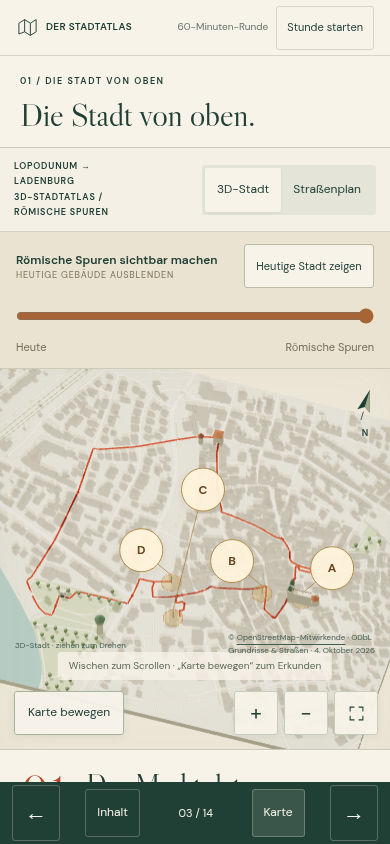
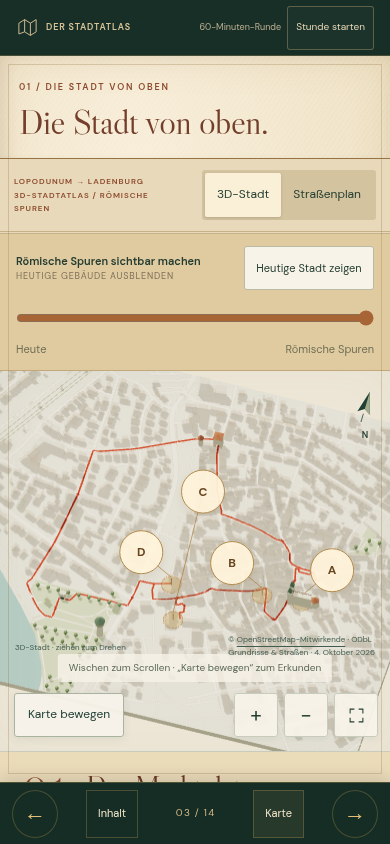
Give Ladenburg an illustrated gilt atlas cover and engraved paper pages

diff --git a/ladenburg.html b/ladenburg.html
@@ -91,6 +91,23 @@ html,body{height:100%;overflow:hidden}html{scroll-behavior:auto}body{overscroll-
 .touch-device .three-container{touch-action:pan-y}.touch-device .atlas.touch-active .three-container,.touch-device .atlas.manual .three-container{touch-action:none}
 </style>
 <style>@media(max-width:540px){.cover-page .hero h1 span{font-size:clamp(29px,8.5vw,36px);white-space:nowrap}.cover-page .stat strong{font-size:27px;white-space:nowrap}.cover-page .stat{padding-left:8px;padding-right:8px}}</style>
+<style id="engraved-atlas-design">/* Ladenburg: a gilt town atlas, with an engraved frontispiece and paper folios. */
+:root{--paper:#f1e5ca;--ink:#253d31;--line:#a9956c;--orange:#93432c;--gold:#bf9854}
+body{background:#162b23}.book-stage{max-width:1180px}.book-page{background-color:var(--paper);background-image:radial-gradient(ellipse at 35% 20%,#fff7e98c,transparent 65%),repeating-linear-gradient(124deg,#7a613107 0px,#7a613107 1px,transparent 1px,transparent 4px);box-shadow:inset 5px 0 14px #57442217,inset 0 0 40px #9b743929}.book-page:after{content:'';position:absolute;inset:12px;border:1px solid #95713e48;pointer-events:none;z-index:2}.page-inner{padding:38px 46px 42px}.topbar{color:#d8c397;background:#172f27;border-bottom:1px solid #b699574d}.brand{letter-spacing:.12em;font-size:11px}.book-timer button{border-color:#c3a77566;color:#e7d6b5;background:#ffffff05}.book-timer .walk-elapsed{color:#bdaf90}.page-controls{background:#152d24;border-top:1px solid #b99a5659;box-shadow:0 -4px 16px #0002;color:#dbc599}.page-controls button{border-color:#b3935555;border-radius:0}.page-controls button:first-child,.page-controls button:last-child{border-radius:50%;width:48px;min-width:48px;padding:0;color:#e2bf75}.page-controls button[aria-pressed=true]{background:#d6b26c18}.page-controls span{letter-spacing:.12em;color:#d6b986}.eyebrow{color:#8d4a2d;font-size:10px;letter-spacing:.2em}.btn{border-color:#94734270;border-radius:0;background:#fffaed38}.btn.primary{background:#2a4637;color:#f0dfb9;border-color:#2a4637}.btn:hover{background:#b8904b1a}.btn.primary:hover{background:#365843}
+/* The cover reads as a complete object rather than an article. */
+.cover-page{background:#193b30;color:#e7d2a1;background-image:radial-gradient(ellipse at 45% 35%,#3a625040,transparent 70%),repeating-linear-gradient(115deg,#0000000b 0px,#0000000b 1px,transparent 1px,transparent 3px);box-shadow:inset 9px 0 22px #0005,inset 0 0 85px #051e18b0}.cover-page:before{content:'';position:absolute;inset:16px;border:1px solid #bfa26890;outline:1px solid #bfa26840;outline-offset:5px;pointer-events:none;z-index:2}.cover-page:after{inset:25px;border:1px solid #bfa26840}.cover-page .page-inner{padding:38px 50px 24px;display:flex;flex-direction:column;align-items:center;position:relative}.cover-page .hero{display:flex;flex-direction:column;align-items:center;text-align:center;width:100%;padding:0;gap:0;max-width:870px}.cover-head{width:100%;position:relative}.cover-page .eyebrow{color:#cab381;font-size:10px;letter-spacing:.26em}.cover-rule{display:flex;align-items:center;gap:15px;color:#b9995e;width:170px;margin:12px auto 9px}.cover-rule:before,.cover-rule:after{content:'';height:1px;background:#b9995e70;flex:1}.cover-rule span{font-size:19px;line-height:1}.cover-kicker{font-family:var(--serif);font-style:italic;font-size:22px;margin:4px 0;color:#cbb986}.cover-page .hero h1{font-family:var(--serif);font-size:clamp(80px,8vw,113px);font-weight:400;line-height:.95;letter-spacing:-.04em;margin:5px 0 9px;color:#ecd6a4;text-shadow:0 1px 0 #091f17,0 -1px 0 #ffecbd35}.cover-subtitle{font-family:var(--serif);font-style:italic;font-size:27px;margin:0;color:#cdb681;letter-spacing:.015em}.cover-frontispiece{width:min(100%,590px);margin:12px 0 0;color:#d7ba7e;position:relative}.cover-frontispiece svg{display:block;width:100%;height:auto;filter:drop-shadow(0 1px 0 #081e17);overflow:visible}.cover-frontispiece:before,.cover-frontispiece:after{content:'✧';position:absolute;top:40%;font-size:25px;color:#ae8c53}.cover-frontispiece:before{left:-18px}.cover-frontispiece:after{right:-18px}.cover-frontispiece figcaption{font-family:var(--serif);font-size:17px;font-style:italic;margin-top:-5px;color:#bca979}.cover-roman{color:#b38a56}.cover-edition{display:flex;align-items:center;gap:22px;letter-spacing:.2em;font-size:9px;margin-top:17px;color:#d7bf8c}.cover-edition b{font-size:24px;line-height:1;font-weight:400;color:#b49354}.cover-page .hero-side{width:100%;padding:0;margin-top:14px;max-width:none}.cover-page .date{display:block;color:#c4b58e;font-size:12px;margin:0;letter-spacing:.08em}.cover-page .date:before{display:none}.cover-page .hero-actions{justify-content:center;margin-top:16px;gap:12px}.cover-page .hero-actions .btn{min-height:44px;font-size:12px;color:#e3cb95;border-color:#b698586e;background:transparent;letter-spacing:.02em;padding:10px 16px}.cover-page .hero-actions .btn.primary{background:#c7a568;color:#17372c;border-color:#ddbf82;box-shadow:inset 0 0 0 3px #dfc38e44}.cover-page .hero-actions .btn.primary:hover{background:#dec18b}.cover-turn-hint{color:#b7985d;font-family:var(--serif);font-style:italic;font-size:16px;letter-spacing:.08em;margin:15px 0 3px}.cover-page .stats{display:none}.cover-open .brand{color:#c8ad74}.cover-open .book-timer .walk-elapsed{font-size:10px}
+/* Engraved corners. Pure ornament is kept out of the accessibility tree. */
+.cover-corner{position:absolute;width:64px;height:64px;color:#b99a5f;pointer-events:none;z-index:3}.cover-corner svg{width:100%;height:100%}.cover-corner.tl{left:22px;top:22px}.cover-corner.tr{right:22px;top:22px;transform:rotate(90deg)}.cover-corner.br{right:22px;bottom:22px;transform:rotate(180deg)}.cover-corner.bl{left:22px;bottom:22px;transform:rotate(270deg)}
+/* Inner leaves: numbered plates, rules and marginal ornaments. */
+.contents-page h2{font-size:62px;line-height:1.03;color:#713b28;margin:15px 0 24px}.contents-page h2:after{content:'❦';display:block;font-size:25px;color:#a47e42;line-height:1;margin-top:18px}.contents-list{border-top:3px double #9e7d4866}.contents-list a{border-bottom:1px solid #9e7d4840}.contents-number{color:#994d30;font-family:var(--serif)}.contents-name{font-family:var(--serif);font-size:25px}.contents-name small{font-family:var(--sans);color:#7c725a}.contents-time{color:#8d6b38}.contents-tuesday{margin-top:25px;padding:18px 20px;border:1px solid #9e7d4859;background:#c5a15c0d}.contents-tuesday p{font-size:14px;margin:8px 0 0}.plan-strip{border-top:3px double #9e7d4860}.plan-strip strong{font-family:var(--serif);font-size:21px;font-weight:400;color:#783d27}.section-heading h2{color:#733e2b}.atlas{border:1px solid #977343;border-radius:0;box-shadow:0 3px 8px #6043211a}.atlas-top{background:#e7d9b9;border-bottom:3px double #9e7d4870}.mode-switch{background:#d3c39f}.mode-switch button[aria-pressed=true]{background:#faf0d7;box-shadow:0 1px 3px #0002}.reveal-bar{background:#e0cba1;border-bottom:1px solid #92704460}.map-side{background:#eadbb9}.map-side h3{color:#6b3a28}.map-number,.stop-number{color:#8c482e}.map-notes{color:#6f654f}.reveal-status{font-family:var(--serif);font-style:italic;font-size:18px}.evidence-list{border:1px solid #9e7d4855;background:#eadaba}.evidence-list button{border-color:#9e7d4844}.evidence-list b{color:#985837}.site-page .stop{border-top:0}.site-page .stop-head{padding-top:5px;padding-bottom:19px;border-bottom:3px double #9e7d4870}.site-page .stop-head .num{font-family:var(--serif);color:#93472e;font-size:49px;font-style:italic}.site-page .stop-head h3{font-size:46px;color:#713e2a;line-height:1.05}.site-page .time-pill{background:none;border-left:1px solid #a4834a70}.site-page .stop-illustration{height:205px;border:1px solid #a1814b85;outline:1px solid #a1814b35;outline-offset:4px;background:radial-gradient(ellipse,#faf1d9aa,transparent),repeating-linear-gradient(130deg,#a37d3a08 0px,#a37d3a08 1px,transparent 1px,transparent 5px);margin:26px 4px 35px;position:relative;display:flex;align-items:center;justify-content:center;box-shadow:inset 0 0 20px #8b652614}.site-page .stop-illustration svg{height:100%;max-width:480px;width:100%;padding:12px 15px 26px;filter:sepia(.35)}.site-page .stop-illustration:after{content:attr(data-caption);position:absolute;bottom:8px;left:8px;right:8px;text-align:center;font-size:9px;letter-spacing:.13em;color:#7b6240}.site-page .stop-body h4{letter-spacing:.19em;font-size:10px;color:#92482d;display:flex;align-items:center;gap:13px;margin-bottom:11px}.site-page .stop-body h4:after{content:'';height:1px;background:#a4834a55;flex:1}.site-page .stop-body p{font-family:var(--serif);font-size:23px;line-height:1.55;color:#3c4030}.site-page .stop-body>p:first-of-type:first-letter{font-size:3.05em;float:left;line-height:.85;padding:6px 8px 0 0;color:#93472e}.site-page .story{border:0;border-top:3px double #a4834a55;padding-top:19px;margin-top:26px;background:none}.site-page .next-leg{background:#ddc99f4d;border-left:2px solid #a0793c;font-family:var(--serif);font-size:20px;padding:16px 20px}.source-mini{font-size:11px;color:#8b6940}.field-notes{border:3px double #9e7d4870;background:#e5d3af70;padding:30px}.field-notes h2{color:#783e29}.field-notes p{font-family:var(--serif);font-size:23px;line-height:1.55}.practical h2,.sources h2{color:#713d2a}.practical dt{font-family:var(--serif);font-size:23px;color:#7b432b}.practical dd{color:#55533f}.sources p{font-family:var(--serif);font-size:21px}.sources li{padding:12px 0;border-bottom:1px solid #9e7d4830}.sources li a{color:#793f29}
+@media(min-width:801px){.cover-page .page-inner{justify-content:center}.cover-page .hero{display:grid;grid-template-columns:1fr 1fr;column-gap:35px;max-width:1000px}.cover-head{grid-column:1;grid-row:1;align-self:end;padding-bottom:10px}.cover-page .hero h1{font-size:92px}.cover-frontispiece{grid-column:2;grid-row:1/4;align-self:center}.cover-edition{grid-column:1;grid-row:2;justify-content:center;align-self:start}.cover-page .hero-side{grid-column:1;grid-row:3;align-self:start}.cover-page .hero>.cover-turn-hint{grid-column:1;margin-top:26px}.cover-page .hero-actions{flex-wrap:wrap}}
+@media(max-width:800px){.page-inner{padding:30px}.cover-page .page-inner{padding:35px 42px 26px}.cover-page .hero h1{font-size:95px}.cover-frontispiece{width:min(100%,490px)}.cover-page .hero-side{margin-top:13px}.site-page .stop-head h3{font-size:40px}.site-page .stop-body p{font-size:22px}}
+@media(max-width:540px){.book-page:after{inset:8px}.page-inner{padding:27px 23px 32px}.topbar{padding:0 16px}.brand{font-size:9px;letter-spacing:.09em}.book-timer button{font-size:10px;padding:8px}.book-timer{gap:6px}.book-timer .walk-elapsed{font-size:9px;min-width:67px}.cover-page:before{inset:14px;outline-offset:4px}.cover-page:after{inset:21px}.cover-page .page-inner{padding:33px 30px 25px}.cover-page .hero{padding:0}.cover-page .eyebrow{font-size:8px;letter-spacing:.2em}.cover-rule{width:130px;margin:11px auto 9px}.cover-kicker{font-size:19px;margin:3px 0}.cover-page .hero h1{font-size:clamp(59px,16.8vw,74px);margin:5px 0 8px;letter-spacing:-.04em;white-space:nowrap}.cover-subtitle{font-size:22px}.cover-frontispiece{width:100%;margin:18px 0 0}.cover-frontispiece:before{left:-13px}.cover-frontispiece:after{right:-13px}.cover-frontispiece:before,.cover-frontispiece:after{font-size:18px}.cover-frontispiece figcaption{font-size:15px;margin-top:0}.cover-edition{font-size:8px;letter-spacing:.18em;gap:17px;margin-top:17px}.cover-page .hero-side{margin-top:17px}.cover-page .date{font-size:11px;letter-spacing:.03em}.cover-page .hero-actions{margin-top:15px;gap:8px;flex-wrap:wrap}.cover-page .hero-actions .btn{font-size:11px;padding:10px 12px;min-height:44px}.cover-page .hero-actions .btn svg{width:16px;height:16px}.cover-turn-hint{font-size:15px;margin:19px 0 0}.cover-corner{width:45px;height:45px}.cover-corner.tl{left:18px;top:18px}.cover-corner.tr{right:18px;top:18px}.cover-corner.br{right:18px;bottom:18px}.cover-corner.bl{left:18px;bottom:18px}.contents-page h2{font-size:50px}.contents-name{font-size:21px}.contents-name small{font-size:10px}.contents-list a{grid-template-columns:27px 1fr 40px 13px;gap:8px}.contents-number{font-size:27px}.contents-page .eyebrow{font-size:9px}.contents-intro{font-family:var(--serif);font-size:20px;line-height:1.5}.contents-tuesday{padding:15px}.contents-tuesday p{font-size:13px}.map-page .page-inner{padding:24px 19px 28px}.map-page .section-heading h2{font-size:35px}.map-page .section-heading{margin-bottom:17px}.atlas-top .eyebrow{font-size:8px;letter-spacing:.12em}.reveal-bar label{font-size:11px}.site-page .stop-head{grid-template-columns:32px 1fr;gap:11px;padding-bottom:16px}.site-page .stop-head .num{font-size:39px}.site-page .stop-head h3{font-size:36px}.site-page .stop-head .eyebrow{font-size:8px;letter-spacing:.15em}.site-page .stop-head .local{font-size:11px}.site-page .time-pill{grid-column:2;display:flex;align-items:center;gap:12px;border:0;padding:0;margin-top:3px;justify-self:start}.site-page .time-pill strong{font-size:11px}.site-page .time-pill span{font-size:10px}.site-page .stop-illustration{height:176px;margin:23px 4px 29px}.site-page .stop-illustration:after{font-size:7px;letter-spacing:.1em}.site-page .stop-body h4{font-size:9px;letter-spacing:.17em}.site-page .stop-body p{font-size:21px;line-height:1.52}.site-page .stop-body{margin-left:0}.site-page .next-leg{font-size:19px;padding:14px}.field-notes{padding:21px}.field-notes p{font-size:21px}.field-notes h2{font-size:37px}.practical h2,.sources h2{font-size:40px}.practical dt{font-size:22px}.page-controls button{font-size:11px;min-width:44px}.page-controls button:first-child,.page-controls button:last-child{width:46px;min-width:46px}.page-controls span{font-size:10px;min-width:59px}}
+@media(max-height:740px) and (max-width:540px){.cover-page .page-inner{padding-top:26px}.cover-rule{margin:7px auto}.cover-frontispiece{max-width:285px;margin-top:12px}.cover-edition{margin-top:11px}.cover-page .hero-side{margin-top:11px}.cover-turn-hint{margin-top:12px}.cover-page .hero h1{font-size:59px}}
+@media(prefers-reduced-motion:no-preference){.cover-open .cover-frontispiece{animation:plate-arrive .9s ease both}.cover-open .cover-head{animation:title-arrive .7s ease both}@keyframes plate-arrive{from{opacity:0;transform:translateY(10px)}to{opacity:1;transform:translateY(0)}}@keyframes title-arrive{from{opacity:0}to{opacity:1}}}
+@media print{body{background:white}.book-page{box-shadow:none}.cover-page{background:#f1e5ca;color:#253d31}.cover-page .hero h1,.cover-page .eyebrow,.cover-subtitle,.cover-kicker,.cover-frontispiece,.cover-edition,.cover-page .date,.cover-frontispiece figcaption{color:#253d31}.cover-page .page-inner{display:block}.cover-page .hero{display:flex}.cover-corner{display:none}.cover-page .hero-actions,.cover-turn-hint{display:none}}
+</style>
+<style>@media(max-width:540px){.site-page .stop-head{grid-template-columns:42px minmax(0,1fr)}.site-page .stop-head>div{min-width:0}.site-page .stop-head h3{overflow-wrap:break-word}.site-page .stop-head .num{font-size:35px;letter-spacing:-.04em}.site-page .stop-body p,.contents-intro{hyphens:auto}.cover-page .hero-actions .btn{display:inline-flex;align-items:center;justify-content:center}}</style>
 </head>
 <body>
 <a class="skip" href="#atlas">Direkt zur Stadtkarte</a>
@@ -101,15 +118,34 @@ html,body{height:100%;overflow:hidden}html{scroll-behavior:auto}body{overscroll-
 </header>
 <main>
 <section class="hero" aria-labelledby="title">
-<div><div class="eyebrow">Nr. 09 / Kurpfalz, Deutschland / 49°28′ N · 8°37′ E</div><h1 id="title">Ladenburg.<br><span>Unter der Oberfläche.</span></h1><p class="hero-copy">Römische Steine unter deinen Füßen. Fachwerk über deinem Kopf. Eine kleine Garage für eine Erfindung, die die Welt veränderte. Acht Stationen, eine Stunde und der Neckar als roter Faden.</p></div>
-<div class="hero-side"><div class="seal" aria-label="Ein Stadtführer für 60 Minuten"><span>EIN KLEINER STADTFÜHRER</span><strong>60</strong><span>MINUTEN ZU FUSS</span></div><div class="date">Dienstag, 6. Oktober 2026</div><div class="tuesday-note"><strong>Ein Spaziergang für deinen Dienstag.</strong><br>Lobdengau-Museum und Automuseum sind dienstags regulär geschlossen. Diese Runde funktioniert draußen. Die Sebastianskapelle wird restauriert; betrachte sie von außen.</div><div class="hero-actions"><a class="btn primary" href="#atlas"><svg viewBox="0 0 24 24" fill="none" stroke="currentColor" stroke-width="1.5" aria-hidden="true"><path d="m3 6 6-3 6 3 6-3v15l-6 3-6-3-6 3V6Z"/><path d="M9 3v15M15 6v15"/></svg>Atlas öffnen</a><button class="btn" id="download"><svg viewBox="0 0 24 24" fill="none" stroke="currentColor" stroke-width="1.5" aria-hidden="true"><path d="M12 3v12m-5-5 5 5 5-5M4 15v6h16v-6"/></svg>Offline speichern</button></div></div>
+<div class="cover-head"><div class="eyebrow">KURPFALZ · EIN STADTPORTRÄT ZU FUSS</div><div class="cover-rule"><span>❧</span></div><p class="cover-kicker">Über den Steinen von</p><h1 id="title">Ladenburg</h1><p class="cover-subtitle">Unter der Oberfläche</p></div>
+<figure class="cover-frontispiece"><svg viewBox="0 0 640 420" xmlns="http://www.w3.org/2000/svg" role="img" aria-labelledby="frontispiece-title frontispiece-desc"><title id="frontispiece-title">Ladenburg über Lopodunum</title><desc id="frontispiece-desc">Stilisierte Zeichnung: die Türme von St. Gallus, Fachwerkhäuser, Benz-Garage und Neckar über einer angedeuteten römischen Fundamentschicht. Keine archäologische Rekonstruktion.</desc><defs><pattern id="engraving-lines" width="5" height="5" patternUnits="userSpaceOnUse"><path d="M0 5 5 0" stroke="currentColor" stroke-width=".6" opacity=".4"/></pattern><pattern id="roman-stones" width="36" height="22" patternUnits="userSpaceOnUse"><path d="M0 0H36M0 22H36M18 0V11M0 11H36M7 11V22M31 11V22" stroke="currentColor" stroke-width=".8" fill="none"/></pattern><clipPath id="plate-clip"><path d="M48 273V147C48-14 592-14 592 147V273Z"/></clipPath></defs>
+<g fill="none" stroke="currentColor" stroke-width="1"><path d="M37 271V147C37-32 603-32 603 147V271M48 271V147C48-14 592-14 592 147V271" opacity=".65"/><path d="M25 273H615M25 281H615"/><path d="M320 11V-1M190 29 185 18M450 29 455 18M79 96 70 88M561 96 570 88"/><circle cx="320" cy="16" r="3"/><path d="m320 22 5 6-5 6-5-6Z"/></g>
+<g clip-path="url(#plate-clip)"><g stroke="currentColor" fill="none" opacity=".15"><path d="M320 218 55 67M320 218 100 31M320 218 181 11M320 218 256-4M320 218 385-4M320 218 462 11M320 218 540 31M320 218 585 67"/><path d="M48 157H592M48 191H592M48 225H592"/></g>
+<g fill="#173d33" stroke="currentColor" stroke-width="1.2" stroke-linejoin="round">
+<!-- Towers of St. Gallus and the broad nave. -->
+<path d="M260 249V113H288V249M365 249V113H393V249"/><path d="M256 113 274 62 292 113ZM361 113 379 62 397 113Z" fill="url(#engraving-lines)"/><path d="M274 62V46m-6 9h12M379 62V46m-6 9h12" fill="none"/><path d="M288 249V157L326 123 365 157V249Z"/><path d="m284 157 42-39 43 39" fill="none"/><path d="M302 249V186H351V249" fill="url(#engraving-lines)"/>
+<path d="M264 126H284M264 137H284M264 171H284M369 126H389M369 137H389M369 171H389" fill="none"/><path d="M270 149V163h8v-14a4 4 0 0 0-8 0ZM375 149V163h8v-14a4 4 0 0 0-8 0Z"/><path d="M318 246V219a9 9 0 0 1 18 0V246M309 181a17 17 0 1 1 34 0Z"/>
+<!-- Market roofs and timber frame, with a fountain. -->
+<path d="M63 246V184l34-40 34 40v62Z"/><path d="m59 185 38-46 39 46" fill="url(#engraving-lines)"/><path d="M143 246V173l40-47 40 47v73Z"/><path d="m137 174 46-54 46 54" fill="url(#engraving-lines)"/><path d="M229 246V202l22-24 22 24v44Z"/><path d="M73 187h48M73 208h48M73 231h48M97 152v94M74 187l46 43M120 188l-46 43M153 178h61M153 206h61M153 232h61M183 135v111M154 179l58 52M212 179l-58 52" fill="none"/><path d="M84 246V230h24v16M169 246v-22h28v22"/>
+<!-- The tower-like Benz garage and the water tower. -->
+<path d="M416 246V178h70v68Z"/><path d="M411 178v-14h12v7h12v-7h12v7h12v-7h12v7h15v-7h6v14Z" fill="url(#engraving-lines)"/><path d="M433 246v-27q18-22 36 0v27M433 192h35" fill="none"/>
+<path d="M524 246V161h27v85Z"/><path d="M515 161v-31h45v31Z"/><path d="m511 130 27-29 26 29Z" fill="url(#engraving-lines)"/><path d="M522 139h32M532 172v14m10-14v14M531 246v-25h13v25" fill="none"/>
+<path d="M488 247V213l15-18 16 18v34Z"/>
+</g><g stroke="currentColor" fill="none" stroke-width=".8" opacity=".6"><path d="M64 250H577M64 255H577M64 260H577"/><path d="M101 176v-12M187 151v-12M273 100V88M379 100V88M529 126h18"/><path d="M286 166V242M361 166V242M419 182V242M483 182V242M552 164V242"/></g></g>
+<!-- An engraved water margin separates modern town and Roman evidence. -->
+<g stroke="currentColor" fill="none" stroke-width="1" opacity=".75"><path d="M43 291q24-9 48 0t48 0t48 0t48 0t48 0t48 0t48 0t48 0t48 0t48 0t48 0"/><path d="M65 299q22-7 44 0t44 0t44 0t44 0t44 0t44 0t44 0t44 0t44 0t44 0t44 0"/></g>
+<g class="cover-roman" stroke="currentColor" stroke-width="1.1"><path d="M109 348V313H251V330H278V363H251V348ZM362 348V315H474V329H511V365H474V348Z" fill="url(#roman-stones)"/><path d="M96 372H529M96 378H529" fill="none" opacity=".5"/><path d="M171 287V321M326 282V368M440 289V319" stroke-dasharray="2 5" opacity=".7"/><circle cx="326" cy="331" r="24" fill="none"/><path d="M310 331H342M326 315V347" opacity=".5"/></g>
+<g fill="currentColor" font-family="DM Sans,sans-serif" text-anchor="middle" font-size="10" letter-spacing="4"><text x="320" y="407">LOPODUNUM · UNTER UNS</text></g></svg><figcaption>Fachwerk über Rom. Der Neckar daneben.</figcaption></figure>
+<div class="cover-edition"><span>ACHT STATIONEN</span><b>❦</b><span>EINE STUNDE</span></div>
+<div class="hero-side"><div class="date">Dienstag, 6. Oktober 2026</div><div class="hero-actions"><a class="btn primary" href="#route">Rundgang starten</a><button class="btn" id="download"><svg viewBox="0 0 24 24" fill="none" stroke="currentColor" stroke-width="1.5" aria-hidden="true"><path d="M12 3v12m-5-5 5 5-5 5M4 15v6h16v-6"/></svg>Offline speichern</button></div></div>
 </section>
 <div class="stats" aria-label="Überblick zum Rundgang"><div class="stat"><strong>2,1</strong><span>Kilometer · Rundweg</span></div><div class="stat"><strong>08</strong><span>kurze Stationen</span></div><div class="stat"><strong>30 / 28</strong><span>gehen / schauen · Minuten</span></div><div class="stat"><strong>€0</strong><span>Eintritt nötig</span></div></div>
 <section aria-labelledby="atlas-title">
 <div class="section-heading"><div><div class="eyebrow">01 / Die Stadt von oben</div><h2 id="atlas-title">Ein kleiner Atlas. Eine ganze Stadt.</h2></div><p>Start und Ziel: der Brunnen auf dem Marktplatz.<br>Dreh die Stadt. Blende ihre Gebäude aus. Entdecke ihre römischen Spuren.</p></div>
 <div class="atlas" id="atlas">
 <div class="atlas-top"><span class="eyebrow">Lopodunum → Ladenburg<br>3D-Stadtatlas / römische Spuren</span><div class="mode-switch" role="group" aria-label="Kartenansicht"><button id="bird-mode" aria-pressed="true">3D-Stadt</button><button id="flat-mode" aria-pressed="false">Straßenplan</button></div></div>
-<div class="reveal-bar"><label for="roman-reveal">Römische Spuren sichtbar machen<span>Heutige Gebäude ausblenden</span></label><div class="reveal-range"><input id="roman-reveal" type="range" min="0" max="100" value="0" step="1" aria-valuetext="Present-day town; Römische Spuren hidden"><div class="range-labels"><span>Heute</span><span>Römische Spuren</span></div></div><button id="reveal-toggle" aria-pressed="false">Römische Spuren zeigen</button></div>
+<div class="reveal-bar"><label for="roman-reveal">Römische Spuren sichtbar machen<span>Heutige Gebäude ausblenden</span></label><div class="reveal-range"><input id="roman-reveal" type="range" min="0" max="100" value="0" step="1" aria-valuetext="Heutige Stadt; römische Spuren ausgeblendet"><div class="range-labels"><span>Heute</span><span>Römische Spuren</span></div></div><button id="reveal-toggle" aria-pressed="false">Römische Spuren zeigen</button></div>
 <div class="atlas-body"><div class="map-panel"><div class="three-container" id="town-three" hidden></div><svg id="town-map" class="map-svg" viewBox="0 0 1000 790" role="group" aria-labelledby="map-title map-desc"><title id="map-title">Karte aus der Vogelperspektive: Ladenburg in einer Stunde</title><desc id="map-desc">Norden liegt oben. Der Neckar liegt im Südwesten, Marktplatz und St. Gallus im Osten, das Martinstor im Norden. Acht nummerierte Stationen folgen dem orangefarbenen Rundweg. Alternativ zur Karte kannst du die Stationsschaltflächen darunter nutzen.</desc><defs><pattern id="atlas-grid" width="100" height="100" patternUnits="userSpaceOnUse"><path d="M100 0H0V100" fill="none" stroke="#536a54" stroke-width=".6" opacity=".12"/></pattern><filter id="paper-grain"><feTurbulence type="fractalNoise" baseFrequency=".5" numOctaves="2" stitchTiles="stitch"/><feColorMatrix type="saturate" values="0"/></filter><clipPath id="map-clip"><rect width="1000" height="790"/></clipPath></defs><rect width="1000" height="790" fill="#efeadf"/><rect width="1000" height="790" fill="url(#atlas-grid)"/><g clip-path="url(#map-clip)"><g id="map-world"></g></g><rect class="map-grain" width="1000" height="790" filter="url(#paper-grain)" pointer-events="none"/></svg>
 <div class="map-controls" role="group" aria-label="Karte zoomen"><button id="zoom-in" aria-label="Vergrößern">+</button><button id="zoom-out" aria-label="Verkleinern">−</button><button class="rotate-control" id="rotate-left" aria-label="Stadt nach links drehen">↶</button><button class="rotate-control" id="rotate-right" aria-label="Stadt nach rechts drehen">↷</button><button id="zoom-reset" aria-label="Kartenansicht zurücksetzen"><svg viewBox="0 0 24 24" fill="none" stroke="currentColor" stroke-width="1.5"><path d="M3 9V3h6m6 0h6v6m0 6v6h-6M9 21H3v-6"/></svg></button></div>
 <div class="map-view-hint" id="map-view-hint">Ziehen zum Drehen · Scrollen oder zwei Finger zum Zoomen · rechts ziehen zum Verschieben</div><button class="map-interact" id="map-interact" aria-pressed="false" aria-label="Karte bewegen aktivieren; zum Scrollen der Seite deaktivieren">Karte bewegen</button><div class="map-north" aria-hidden="true"><svg viewBox="0 0 32 55"><path d="M16 6 7 37l9-6 9 6Z" fill="#203f35"/><path d="M16 6v25l9 6Z" fill="#a5ad8d"/><path d="M16 38v12" stroke="#203f35"/></svg>N</div>
@@ -4683,6 +4719,21 @@ function drawIllustration(id,target='side-art'){
  else if(id==='benz'){draw('M75 115V49h103v66Z M75 49V34h16v9h16v-9h16v9h16v-9h16v9h23v6Z');line(svg,'M105 115V83q22-24 43 0v32M91 59h71M117 61v11m19-11v11M69 120h117');}
  else if(id==='neckar'){draw('M173 113V47h36v66Z M165 47l26-34 26 34Z M169 37h44v19h-44Z');line(svg,'M30 102 53 55l71 26-70 36 44-9M37 106l89-1M20 126q20-10 40 0t40 0t40 0t40 0t40 0M182 62v14m16-14v14M181 115V91h19v24');}
  else{draw('M83 115V39h92v76Z M73 39l57-25 56 25Z M24 115V69h29v46Z M22 69l17-29 17 29Z');line(svg,'M110 115V89q20-24 39 0v26M99 54v14m18-14v14m22-14v14m19-14v14M53 98h30M54 82h29');}
+
+ // Fine architectural marks make each plate readable beyond its silhouette.
+ const details={
+ market:'M30 55l20-22 22 22M36 51h30M41 44h20M92 66l17-16 19 16M181 43l24-19 23 19M184 47h42M183 58h44M183 74h44M183 91h44M183 106h44M193 52v61m23-61v61M185 59l39 45m0-45-39 45M39 66v10h8V66Zm22 0v10h8V66ZM91 78v10h9V78Zm27 0v10h9V78ZM192 60v9h7v-9Zm19 0v9h7v-9ZM101 112V94h16v18M145 113h16M140 108h26M149 74h8M149 68h8M137 83q16 13 32 0M151 64v-9m4 9v-9',
+ gallus:'M43 53h22M43 58h22M186 53h22M186 58h22M46 91h16M47 98h15M187 91h17M187 98h17M47 104h15M187 104h17M80 110h36M159 110h17M83 76v26h10V81q-5-12-10-5ZM104 71v31h10V77q-5-13-10-6ZM158 76v26h10V81q-5-12-10-5ZM77 71l49-26 49 26M78 75l48-26 49 26M54 31v13m144-13v13M50 12h8m-4-4v10M194 12h8m-4-4v10M133 85h7m-3-6v11M92 106v6m13-6v6m59-6v6',
+ metzger:'M33 30h193M35 35h187M35 100h187M50 89l15-5h38l14 5h35l16-5h34M51 92h159M55 54h20m-10 0V45M81 54h20m-10 0V45M127 54h20m-10 0V45M166 54h20m-10 0V45M54 72h20m-10 0V64M87 72h20m-10 0V64M135 72h20m-10 0V64M180 72h20m-10 0V64M25 115h-9v-7H8m8 0v-7h9m0 0v-7h9M218 43v50M222 39v58M45 97h170M104 39v56',
+ bishop:'M31 63l62-31 64 31M34 67h118M30 112h128M45 79h15m9 0h15m9 0h15m9 0h15m9 0h15M43 108h107M84 104V83q10-12 20 0v21M44 74v34M66 74v34M121 74v34M145 74v34M178 63l30-21 23 21M176 68h56M177 111h53M204 105V83q8-13 16 0v22M184 47h15M191 40V27m-4 6h8M160 117v-10h9v10M163 107V80h3v27M159 80h11M164 79v-8m-3 6h7',
+ burgus:'M44 52h35M43 59h38M43 71h38M43 87h38M43 106h38M51 53v6m16-6v6M59 63v8m16-8v8M49 72v9m17-9v9M58 82v6m18-6v6M50 88v11m16-11v11M60 100v7m16-7v7M90 87h124M90 91h124M90 107h124M101 83v8m23-8v8m23-8v8m23-8v8m23-8v8M104 100v7m27-7v7m27-7v7m27-7v7M94 115h127M28 119h198M30 116l8-9m188 9-6-9',
+ benz:'M78 52h97M78 55h97M80 63h31m32 0h28M80 70h31m32 0h28M83 54v16m14-16v16m54-16v16m13-16v16M114 58h27M114 61h27M78 75h96M81 85h18m53 0h18M81 92h18m53 0h18M81 99h18m53 0h18M83 108h13m58 0h13M81 113h19m53 0h18M97 77v37m59-37v37M111 106l5-10h21l8 10M114 98h25M116 97l2-7h14l4 7M113 106h33M111 109h37M109 111a4 4 0 1 0 8 0a4 4 0 1 0-8 0M138 111a4 4 0 1 0 8 0a4 4 0 1 0-8 0',
+ neckar:'M169 42h44M171 47h40M171 52h40M176 56h28M177 78h28M177 84h28M176 108h27M173 47v9m8-9v9m9-9v9m9-9v9M191 18v14m-13 1h25M32 104l26-45 62 25M58 59l-8 52M61 62l11 47M76 67l11 40M92 74l10 29M108 80l10 21M48 114h77M23 119q20-7 38 0t38 0t38 0M148 124q16-7 32 0t32 0t32 0',
+ gate:'M85 44h88M87 49h84M89 75h80M89 80h80M89 105h15m48 0h18M87 111h18m47 0h18M99 58v7m18-7v7m22-7v7m19-7v7M95 86h10m48 0h10M93 91h10m50 0h10M95 97h8m50 0h10M115 115V90q15-20 29 0v25M120 96v19m6-23v23m6-23v23m6-19v19M28 75h21M28 80h21M28 86h21M28 100h21M34 70v10m7 0v6m-10 1v13m11 0v13M37 55v9M56 86h26M56 91h26M56 104h26M64 83v8m10 0v13M71 35l58-29 59 29M85 30h90'
+ };
+ if(details[id])line(svg,details[id]);
+ const faint=document.createElementNS('http://www.w3.org/2000/svg','g');faint.setAttribute('opacity','.3');svg.appendChild(faint);
+ for(let j=0;j<8;j++)line(faint,'M'+(28+j*26)+' 126l14 0');
  line(svg,'M15 123H245');
 }
 function line(svg,path){const p=document.createElementNS('http://www.w3.org/2000/svg','path');p.setAttribute('d',path);p.setAttribute('fill','none');p.setAttribute('stroke','#54705b');p.setAttribute('stroke-width','1');svg.appendChild(p)}
@@ -4787,13 +4838,13 @@ function buildBook(){
  const nav=$('stop-nav');nav.classList.remove('aside-nav');nav.classList.add('contents-list');contents.appendChild(nav);
  [...nav.children].forEach((a,i)=>{const s=STOPS[i];a.innerHTML=`<span class="contents-number">${String(i+1).padStart(2,'0')}</span><span class="contents-name">${s.name}<small>${s.local}</small></span><span class="contents-time">${s.time}′</span><span class="contents-arrow">→</span>`});
  const progress=document.createElement('div');progress.className='contents-progress';progress.append(main.querySelector('.progress-track'),$('progress-label'),$('reset-progress'));contents.appendChild(progress);
- const next=$('walk-next');next.className='btn continue-walk';contents.appendChild(next);contents.appendChild(plan);
+ const next=$('walk-next');next.className='btn continue-walk';contents.appendChild(next);contents.appendChild(plan);contents.insertAdjacentHTML('beforeend','<div class="contents-tuesday"><span class="eyebrow">DEIN DIENSTAG / UNTER FREIEM HIMMEL</span><p>Lobdengau-Museum und Automuseum sind dienstags regulär geschlossen. Diese Runde funktioniert draußen. Die Sebastianskapelle wird restauriert; betrachte sie von außen.</p></div>');
  const stage=document.createElement('div');stage.id='book-stage';stage.className='book-stage';stage.setAttribute('aria-label','Seiten des Ladenburg-Stadtführers');
  function addPage(key,title,nodes,kind){const page=document.createElement('section');page.className='book-page '+kind;page.dataset.page=bookPages.length;page.dataset.title=title;page.setAttribute('aria-label',title);page.setAttribute('aria-hidden','true');page.inert=true;const inner=document.createElement('div');inner.className='page-inner';nodes.forEach(n=>inner.appendChild(n));page.appendChild(inner);stage.appendChild(page);pageHashMap.set(key,bookPages.length);bookPages.push(page);return page}
- addPage('cover','Ladenburg · Unter der Oberfläche',[hero,stats],'cover-page');
+ const cover=addPage('cover','Ladenburg · Unter der Oberfläche',[hero,stats],'cover-page');['tl','tr','br','bl'].forEach(pos=>{const ornament=document.createElement('span');ornament.className='cover-corner '+pos;ornament.setAttribute('aria-hidden','true');ornament.innerHTML='<svg viewBox="0 0 64 64" fill="none" stroke="currentColor" stroke-width=".8"><path d="M2 62V2H62M9 51V9H51M15 39V15H39M2 28Q25 28 28 2M9 34Q34 34 34 9M18 23q14-9 23-5-2 12-15 14-11 2-11-6 0-8 7-7 6 1 2 6M7 46l8-4-4 8-4-4ZM46 7l4 4-8 4 4-8Z"/><circle cx="12" cy="12" r="3"/><path d="m36 26 3 6-6-3m-7 7 6 3-3-6"/></svg>';cover.appendChild(ornament)});
  addPage('route','Inhalt · dein einstündiger Rundweg',[contents],'contents-book-page');pageHashMap.set('contents',1);
  addPage('atlas','3D-Stadt & römische Spuren',[mapSection],'map-page');
- stopArticles.forEach((article,i)=>{const illustration=document.createElement('div');illustration.className='stop-illustration';illustration.id='illustration-'+STOPS[i].id;illustration.setAttribute('aria-hidden','true');article.querySelector('.stop-head').after(illustration);const story=article.querySelector('.story');const text=story.querySelector('p');const replacement=document.createElement('section');replacement.className='story';replacement.innerHTML='<h4>DIE GESCHICHTE DAHINTER</h4>';replacement.appendChild(text);story.replaceWith(replacement);addPage('stop-'+STOPS[i].id,STOPS[i].local,[article],'site-page');drawIllustration(STOPS[i].id,illustration)});
+ stopArticles.forEach((article,i)=>{const illustration=document.createElement('div');illustration.className='stop-illustration';illustration.id='illustration-'+STOPS[i].id;illustration.setAttribute('aria-hidden','true');illustration.dataset.caption='ABB. '+String(i+1).padStart(2,'0')+' / '+STOPS[i].local;article.querySelector('.stop-head').after(illustration);const story=article.querySelector('.story');const text=story.querySelector('p');const replacement=document.createElement('section');replacement.className='story';replacement.innerHTML='<h4>DIE GESCHICHTE DAHINTER</h4>';replacement.appendChild(text);story.replaceWith(replacement);addPage('stop-'+STOPS[i].id,STOPS[i].local,[article],'site-page');drawIllustration(STOPS[i].id,illustration)});
  addPage('field-notes','Beobachtung · eine Stadt in Schichten',[field],'field-page');
  addPage('practical','Vor dem Start · dein Dienstag',[practical],'practical-page');
  addPage('sources','Quellen & Kartenangaben',[sources],'sources-page');
@@ -4813,13 +4864,13 @@ function buildBook(){
  window.addEventListener('hashchange',()=>{const i=pageHashMap.get(location.hash.slice(1));if(i!==undefined)goTo(i,false)});
  $('side-read').textContent='Station öffnen →';
  hero.querySelector('.hero-actions a').setAttribute('href','#route');hero.querySelector('.hero-actions a').innerHTML=icon('map')+'Rundgang starten';
- const hint=document.createElement('p');hint.className='cover-turn-hint';hint.textContent='Wische nach links oder tippe auf den Pfeil.';hero.appendChild(hint);
+ const hint=document.createElement('p');hint.className='cover-turn-hint';hint.textContent='Umblättern →';hero.appendChild(hint);
  const heading=mapSection.querySelector('.section-heading');heading.querySelector('h2').textContent='Die Stadt von oben.';
  const mapHint=heading.querySelector('p');mapHint.textContent='Dreh die Stadt und entdecke ihre römischen Spuren. Öffne eine nummerierte Station, um zu ihrer Seite zu blättern.';
  goTo(pageHashMap.get(location.hash.slice(1))??0,false);
 }
 function goTo(index,writeHash=true){
- if(index<0||index>=bookPages.length)return;stopSpeech();currentPage=index;
+ if(index<0||index>=bookPages.length)return;stopSpeech();currentPage=index;document.body.classList.toggle('cover-open',index===0);
  bookPages.forEach((page,i)=>{const active=i===index;page.classList.toggle('active',active);page.inert=!active;page.setAttribute('aria-hidden',String(!active));if(active)page.querySelector('.page-inner').scrollTop=0});
  if(index>=3&&index<3+STOPS.length)selectStop(index-3);
  $('page-prev').disabled=index===0;$('page-next').disabled=index===bookPages.length-1;$('page-counter').textContent=String(index+1).padStart(2,'0')+' / '+String(bookPages.length).padStart(2,'0');$('page-prev').setAttribute('aria-label',index===0?'Vorherige Seite':'Zurück: '+bookPages[index-1].dataset.title);$('page-next').setAttribute('aria-label',index===bookPages.length-1?'Nächste Seite':'Weiter: '+bookPages[index+1].dataset.title);$('page-atlas').setAttribute('aria-pressed',index===2);$('page-contents').setAttribute('aria-pressed',index===1);

diff --git a/index.html b/index.html
@@ -1000,28 +1000,31 @@
     <!-- Ladenburg: one-hour 3D walking atlas -->
     <a href="ladenburg.html" class="guide-card">
       <div class="card-image">
-        <div class="card-gradient" style="background:#e9e1ce">
-          <svg viewBox="0 0 320 200" width="100%" height="100%" aria-hidden="true">
-            <path d="M22 119 171 52 302 104 155 183Z" fill="#f5efdf" stroke="#c6bba1"/>
-            <path d="m23 119 54-24 104 40-26 48Z" fill="#a8c3bf"/>
-            <path d="m72 111 70-30 77 29-39 42-85-25" fill="none" stroke="#ad4f33" stroke-width="3" stroke-dasharray="5 3"/>
-            <g fill="#d7c8ad" stroke="#7f826b" stroke-width=".6">
-              <path d="m105 88 18-8 16 7v24l-18 8-16-7Z"/><path d="m145 65 18-8 20 8v24l-18 8-20-8Z"/>
-              <path d="m202 104 18-8 16 7v24l-18 8-16-7Z"/><path d="m117 126 18-8 16 7v17l-18 8-16-7Z"/>
-              <path d="m179 132 18-8 16 7v17l-18 8-16-7Z"/>
-              <path d="m158 100 24-11 40 15v21l-24 11-40-15Z"/>
-              <path d="m165 102 9-4 8 3V67l-9-4-8 4Z"/><path d="m185 110 9-4 8 3V75l-9-4-8 4Z"/>
-            </g>
-            <g fill="#a16b4e" stroke="#7f826b" stroke-width=".6"><path d="m105 88 17-15 17 14-18 8Z"/><path d="m145 65 17-15 21 15-18 8Z"/><path d="m202 104 17-15 17 14-18 8Z"/><path d="m117 126 17-15 17 14-18 8Z"/><path d="m179 132 17-15 17 14-18 8Z"/><path d="m158 100 25-20 39 24-24 11Z"/></g>
-            <g fill="#5e7864"><path d="m165 67 9-24 8 24-9 4Z"/><path d="m185 75 9-24 8 24-9 4Z"/></g>
-            <circle cx="183" cy="106" r="28" fill="#c9995040" stroke="#b38642" stroke-dasharray="3 4"/>
-          </svg>
+        <div class="card-gradient" style="background:#193b30;color:#d7ba7e;padding:12px 28px">
+          <svg viewBox="0 -10 640 440" width="100%" height="100%" xmlns="http://www.w3.org/2000/svg" aria-hidden="true"><title id="shelf-front-title">Ladenburg über Lopodunum</title><desc id="shelf-front-desc">Stilisierte Zeichnung: die Türme von St. Gallus, Fachwerkhäuser, Benz-Garage und Neckar über einer angedeuteten römischen Fundamentschicht. Keine archäologische Rekonstruktion.</desc><defs><pattern id="shelf-engraving-lines" width="5" height="5" patternUnits="userSpaceOnUse"><path d="M0 5 5 0" stroke="currentColor" stroke-width=".6" opacity=".4"/></pattern><pattern id="shelf-roman-stones" width="36" height="22" patternUnits="userSpaceOnUse"><path d="M0 0H36M0 22H36M18 0V11M0 11H36M7 11V22M31 11V22" stroke="currentColor" stroke-width=".8" fill="none"/></pattern><clipPath id="shelf-plate-clip"><path d="M48 273V147C48-14 592-14 592 147V273Z"/></clipPath></defs>
+<g fill="none" stroke="currentColor" stroke-width="1"><path d="M37 271V147C37-32 603-32 603 147V271M48 271V147C48-14 592-14 592 147V271" opacity=".65"/><path d="M25 273H615M25 281H615"/><path d="M320 11V-1M190 29 185 18M450 29 455 18M79 96 70 88M561 96 570 88"/><circle cx="320" cy="16" r="3"/><path d="m320 22 5 6-5 6-5-6Z"/></g>
+<g clip-path="url(#shelf-plate-clip)"><g stroke="currentColor" fill="none" opacity=".15"><path d="M320 218 55 67M320 218 100 31M320 218 181 11M320 218 256-4M320 218 385-4M320 218 462 11M320 218 540 31M320 218 585 67"/><path d="M48 157H592M48 191H592M48 225H592"/></g>
+<g fill="#173d33" stroke="currentColor" stroke-width="1.2" stroke-linejoin="round">
+<!-- Towers of St. Gallus and the broad nave. -->
+<path d="M260 249V113H288V249M365 249V113H393V249"/><path d="M256 113 274 62 292 113ZM361 113 379 62 397 113Z" fill="url(#shelf-engraving-lines)"/><path d="M274 62V46m-6 9h12M379 62V46m-6 9h12" fill="none"/><path d="M288 249V157L326 123 365 157V249Z"/><path d="m284 157 42-39 43 39" fill="none"/><path d="M302 249V186H351V249" fill="url(#shelf-engraving-lines)"/>
+<path d="M264 126H284M264 137H284M264 171H284M369 126H389M369 137H389M369 171H389" fill="none"/><path d="M270 149V163h8v-14a4 4 0 0 0-8 0ZM375 149V163h8v-14a4 4 0 0 0-8 0Z"/><path d="M318 246V219a9 9 0 0 1 18 0V246M309 181a17 17 0 1 1 34 0Z"/>
+<!-- Market roofs and timber frame, with a fountain. -->
+<path d="M63 246V184l34-40 34 40v62Z"/><path d="m59 185 38-46 39 46" fill="url(#shelf-engraving-lines)"/><path d="M143 246V173l40-47 40 47v73Z"/><path d="m137 174 46-54 46 54" fill="url(#shelf-engraving-lines)"/><path d="M229 246V202l22-24 22 24v44Z"/><path d="M73 187h48M73 208h48M73 231h48M97 152v94M74 187l46 43M120 188l-46 43M153 178h61M153 206h61M153 232h61M183 135v111M154 179l58 52M212 179l-58 52" fill="none"/><path d="M84 246V230h24v16M169 246v-22h28v22"/>
+<!-- The tower-like Benz garage and the water tower. -->
+<path d="M416 246V178h70v68Z"/><path d="M411 178v-14h12v7h12v-7h12v7h12v-7h12v7h15v-7h6v14Z" fill="url(#shelf-engraving-lines)"/><path d="M433 246v-27q18-22 36 0v27M433 192h35" fill="none"/>
+<path d="M524 246V161h27v85Z"/><path d="M515 161v-31h45v31Z"/><path d="m511 130 27-29 26 29Z" fill="url(#shelf-engraving-lines)"/><path d="M522 139h32M532 172v14m10-14v14M531 246v-25h13v25" fill="none"/>
+<path d="M488 247V213l15-18 16 18v34Z"/>
+</g><g stroke="currentColor" fill="none" stroke-width=".8" opacity=".6"><path d="M64 250H577M64 255H577M64 260H577"/><path d="M101 176v-12M187 151v-12M273 100V88M379 100V88M529 126h18"/><path d="M286 166V242M361 166V242M419 182V242M483 182V242M552 164V242"/></g></g>
+<!-- An engraved water margin separates modern town and Roman evidence. -->
+<g stroke="currentColor" fill="none" stroke-width="1" opacity=".75"><path d="M43 291q24-9 48 0t48 0t48 0t48 0t48 0t48 0t48 0t48 0t48 0t48 0t48 0"/><path d="M65 299q22-7 44 0t44 0t44 0t44 0t44 0t44 0t44 0t44 0t44 0t44 0t44 0"/></g>
+<g class="cover-roman" stroke="currentColor" stroke-width="1.1"><path d="M109 348V313H251V330H278V363H251V348ZM362 348V315H474V329H511V365H474V348Z" fill="url(#shelf-roman-stones)"/><path d="M96 372H529M96 378H529" fill="none" opacity=".5"/><path d="M171 287V321M326 282V368M440 289V319" stroke-dasharray="2 5" opacity=".7"/><circle cx="326" cy="331" r="24" fill="none"/><path d="M310 331H342M326 315V347" opacity=".5"/></g>
+<g fill="currentColor" font-family="DM Sans,sans-serif" text-anchor="middle" font-size="10" letter-spacing="4"><text x="320" y="407">LOPODUNUM · UNTER UNS</text></g></svg>
         </div>
       </div>
       <div class="card-content">
         <div class="card-region">Kurpfalz, Deutschland</div>
         <h2 class="card-title">Ladenburg — Unter der Oberfläche</h2>
-        <p class="card-description">Eine Stunde zwischen römischen Fundamenten, Fachwerkgassen und Benz-Garten. Dreh die 3D-Stadt und blende ihre Gebäude aus, um römische Spuren zu entdecken. Für Dienstag, 6. Oktober 2026.</p>
+        <p class="card-description">Ein goldgeprägter Stadtatlas: Fachwerk über Rom, die Benz-Garage im Garten und der Neckar als roter Faden. Acht Stationen, eine Stunde und eine 3D-Karte mit römischen Spuren. Dienstag, 6. Oktober 2026.</p>
         <div class="card-meta"><span>60 Minuten · 2,1 km · 8 Stationen</span><span>3D-Karte · offline nutzbar</span></div>
         <div class="card-arrow"><svg viewBox="0 0 24 24" fill="none" stroke="currentColor" stroke-width="2" stroke-linecap="round" stroke-linejoin="round"><path d="M5 12h14M12 5l7 7-7 7"/></svg></div>
       </div>

diff --git a/tools/ladenburg/README.md b/tools/ladenburg/README.md
@@ -30,3 +30,11 @@ Only the active page is exposed to interaction and assistive technology; long
 content scrolls inside that page. Horizontal swipes turn reading pages and
 never compete with map gestures. On touch devices, the map scrolls with the
 page until “Move map” is explicitly enabled.
+
+The visual design is a gilt green town atlas with an original SVG frontispiece,
+ornamented cover corners and warm paper folios. The frontispiece is a symbolic
+illustration, not a geographic plan or Roman reconstruction. The cover's SVG
+and the `engraved-atlas-design` style block are authored directly in
+`ladenburg.html`; fine architectural marks are added by `drawIllustration()`.
+Keep the cover's artwork, the homepage shelf illustration and mobile previews
+consistent when changing the design.
